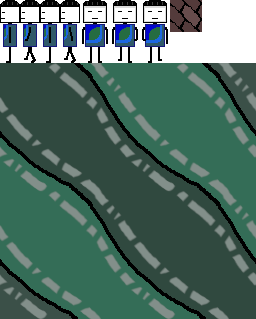
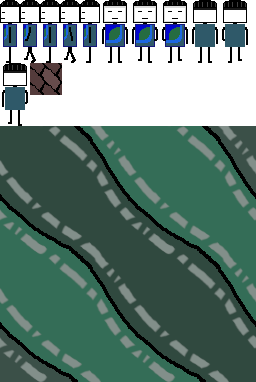
fixed animation and joystick

diff --git a/assets/ts/game/controls.ts b/assets/ts/game/controls.ts
@@ -39,6 +39,8 @@ export function enableControls() {
     areControlsEnabled = true;
 }
 
+var lastMoveUDwasUp = false;
+
 export function startControlLoop() {
     var isMoving = false;
     function loop() {
@@ -52,28 +54,33 @@ export function startControlLoop() {
             player.vx -= calcSpeed;
             isMoving = true;
             player.playAnimation("walk-l", 0.08);
+            lastMoveUDwasUp = false;
         }
 
         if(isMovingRight) {
             player.vx += calcSpeed;
             isMoving = true;
             player.playAnimation("walk-r", 0.08);
+            lastMoveUDwasUp = false;
         }
 
         if(isJumping) {
             player.vy -= calcSpeed;
             isMoving = true;
-            player.playAnimation("walk-ud", 0.08);
+            player.playAnimation("walk-ud-up", 0.08);
+            lastMoveUDwasUp = true;
         }
 
         if(isGoingDown) {
             player.vy += calcSpeed;
             isMoving = true;
-            player.playAnimation("walk-ud", 0.08);
+            player.playAnimation("walk-ud-down", 0.08);
+            lastMoveUDwasUp = false;
         }
 
         if(!isMoving) {
-            player.playSprite("stand-ud");
+            if(lastMoveUDwasUp) player.playSprite("stand-ud-up");
+            else player.playSprite("stand-ud-down");
         }
 
         requestAnimationFrame(loop);

diff --git a/assets/ts/game/main.ts b/assets/ts/game/main.ts
@@ -14,10 +14,14 @@ function loadAnimations() {
     walkR.scale.x = -1;
     walkR.position.x = 30;
 
-    player.setAnimation("walk-ud", new AnimatedSprite(spritesheet.animations["player-down-walk"]));
+    player.setAnimation("walk-ud-down", new AnimatedSprite(spritesheet.animations["player-down-walk"]));
+    player.setAnimation("walk-ud-up", new AnimatedSprite(spritesheet.animations["player-up-walk"]));
     player.setAnimation("walk-l", new AnimatedSprite(spritesheet.animations["player-side-walk"]));
     player.setAnimation("walk-r", walkR);
-    player.setSprite("stand-ud", new Sprite(spritesheet.textures["player-down-stand.png"]));
+    player.setSprite("stand-ud-down", new Sprite(spritesheet.textures["player-down-stand.png"]));
+    player.setSprite("stand-ud-up", new Sprite(spritesheet.textures["player-up-stand.png"]));
+
+
 }
 
 export function startGame(app: Application) {    

diff --git a/assets/css/main.css b/assets/css/main.css
@@ -56,6 +56,8 @@ button {
 }
 
 #ui > #joystick {
+    position: fixed;
+    bottom: 0;
     display: flex;
     align-items: end;
     padding: 35px;
